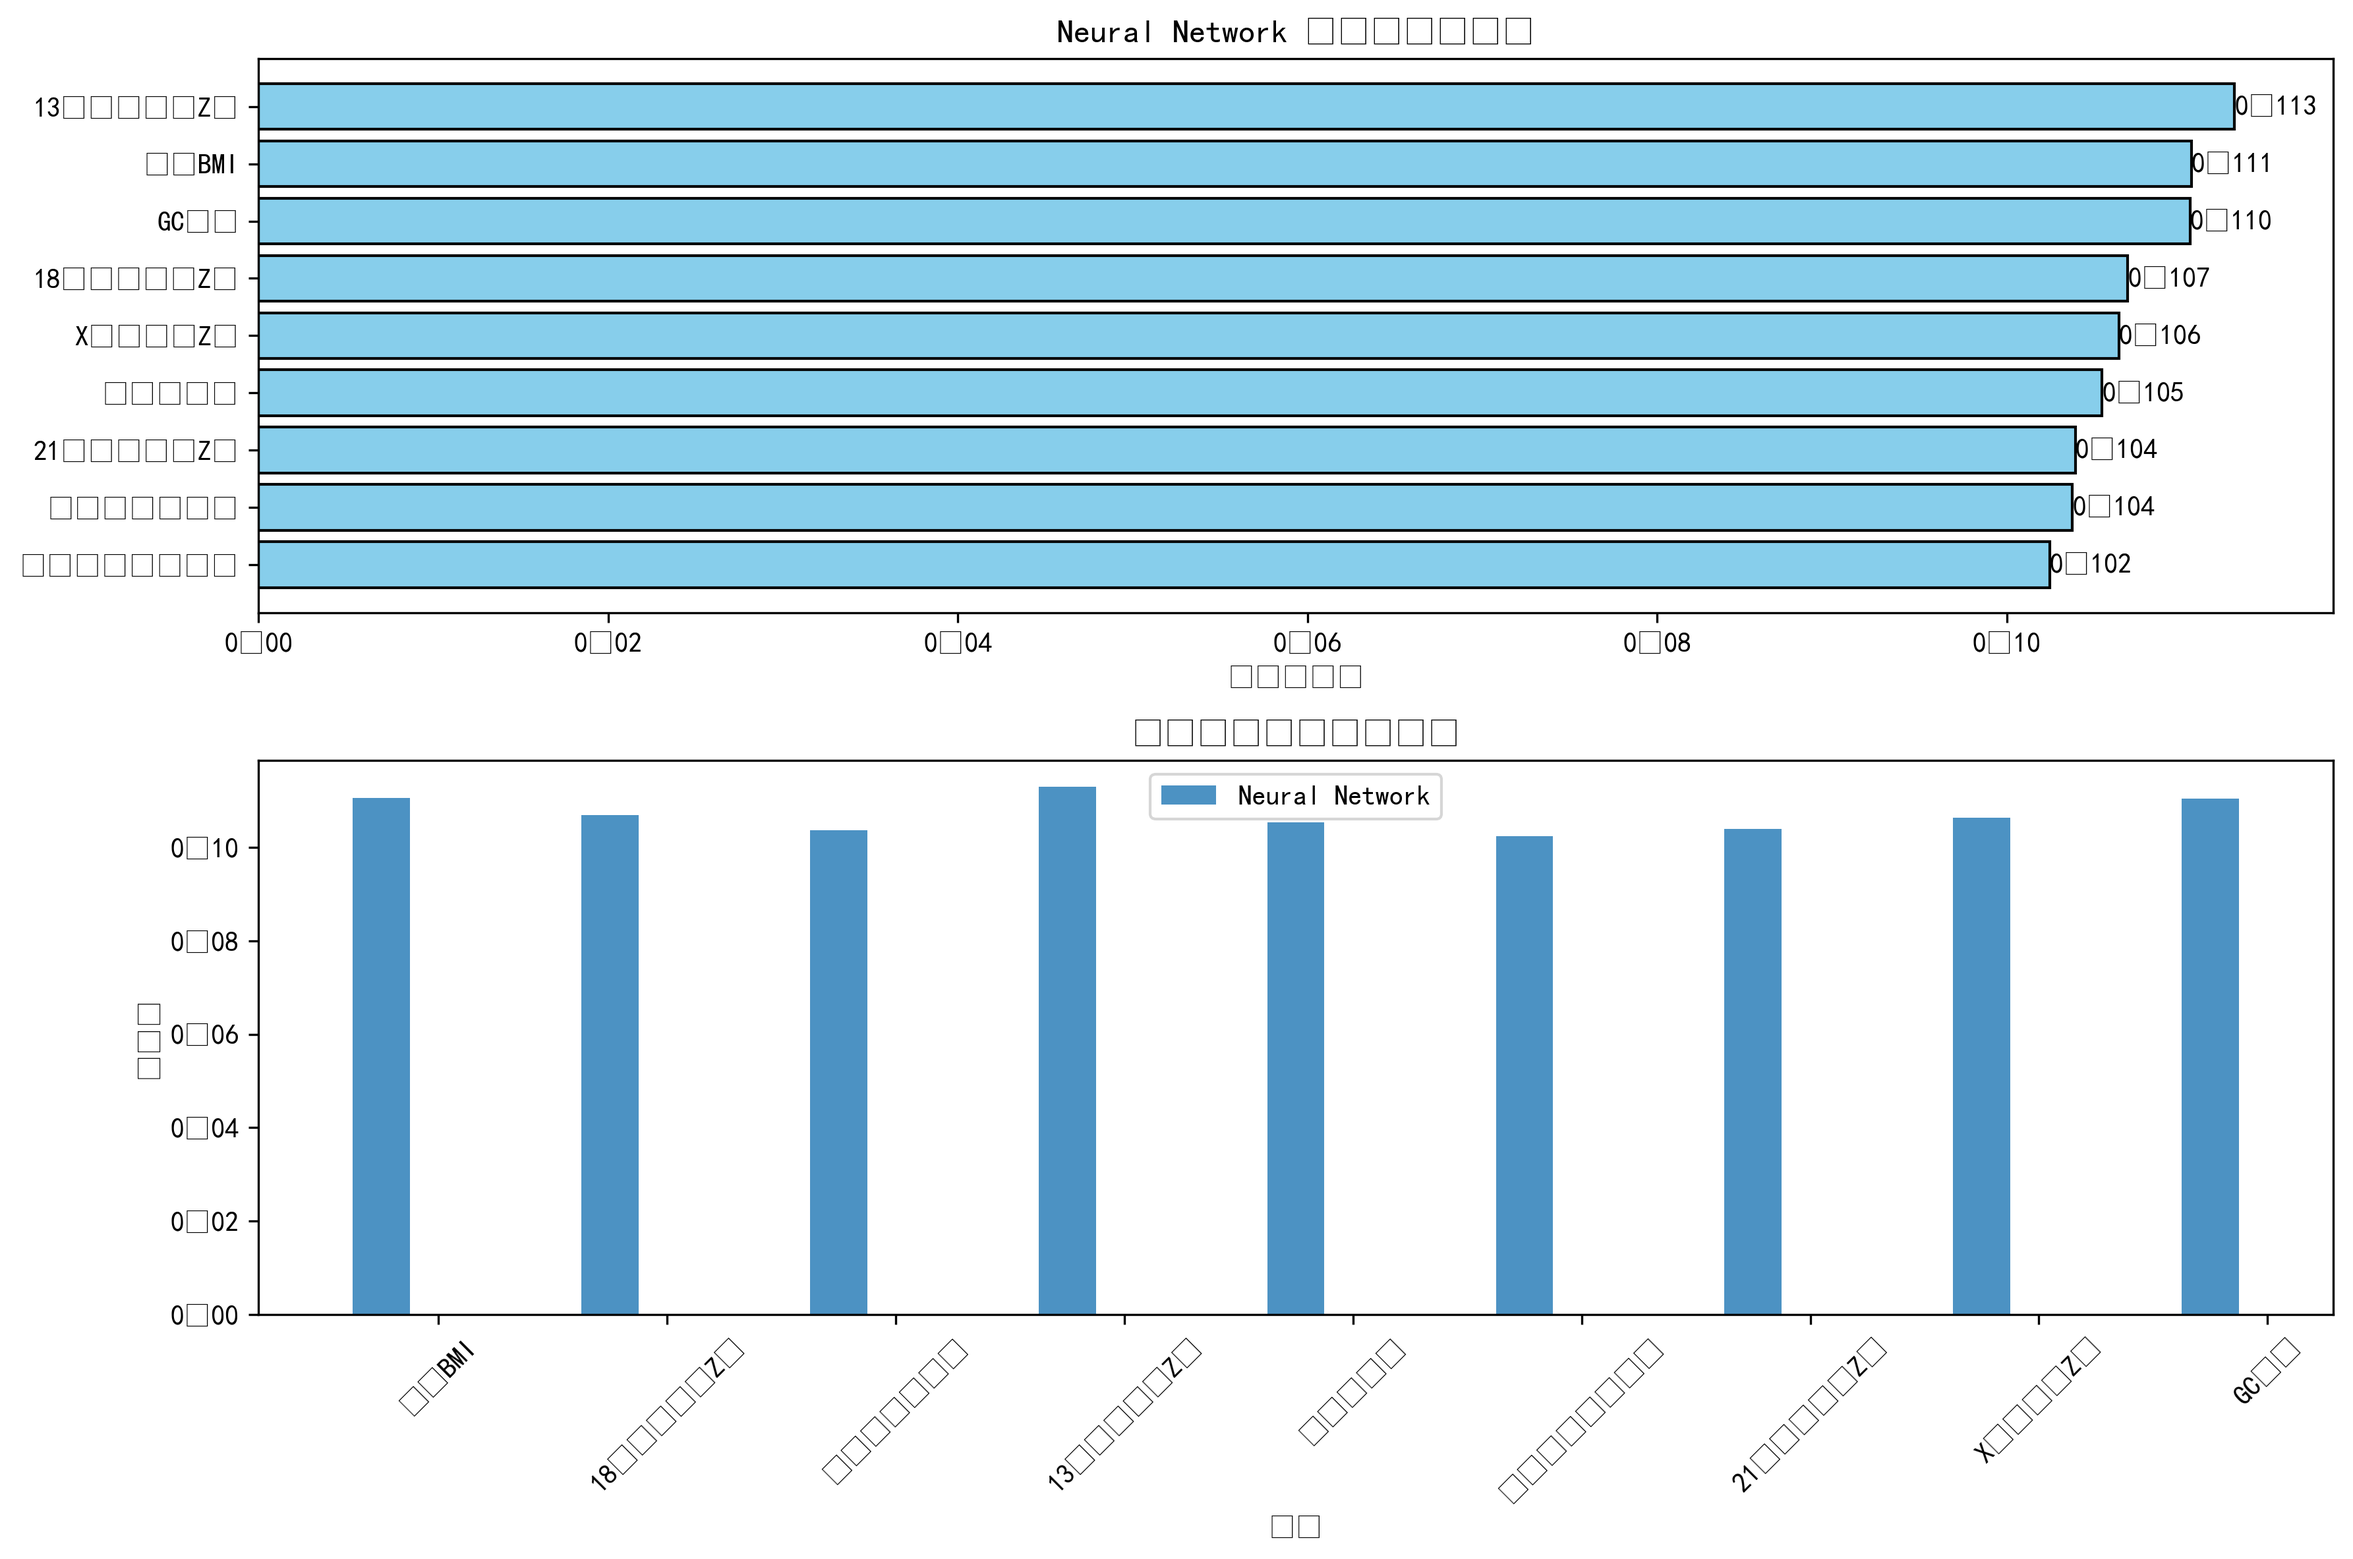
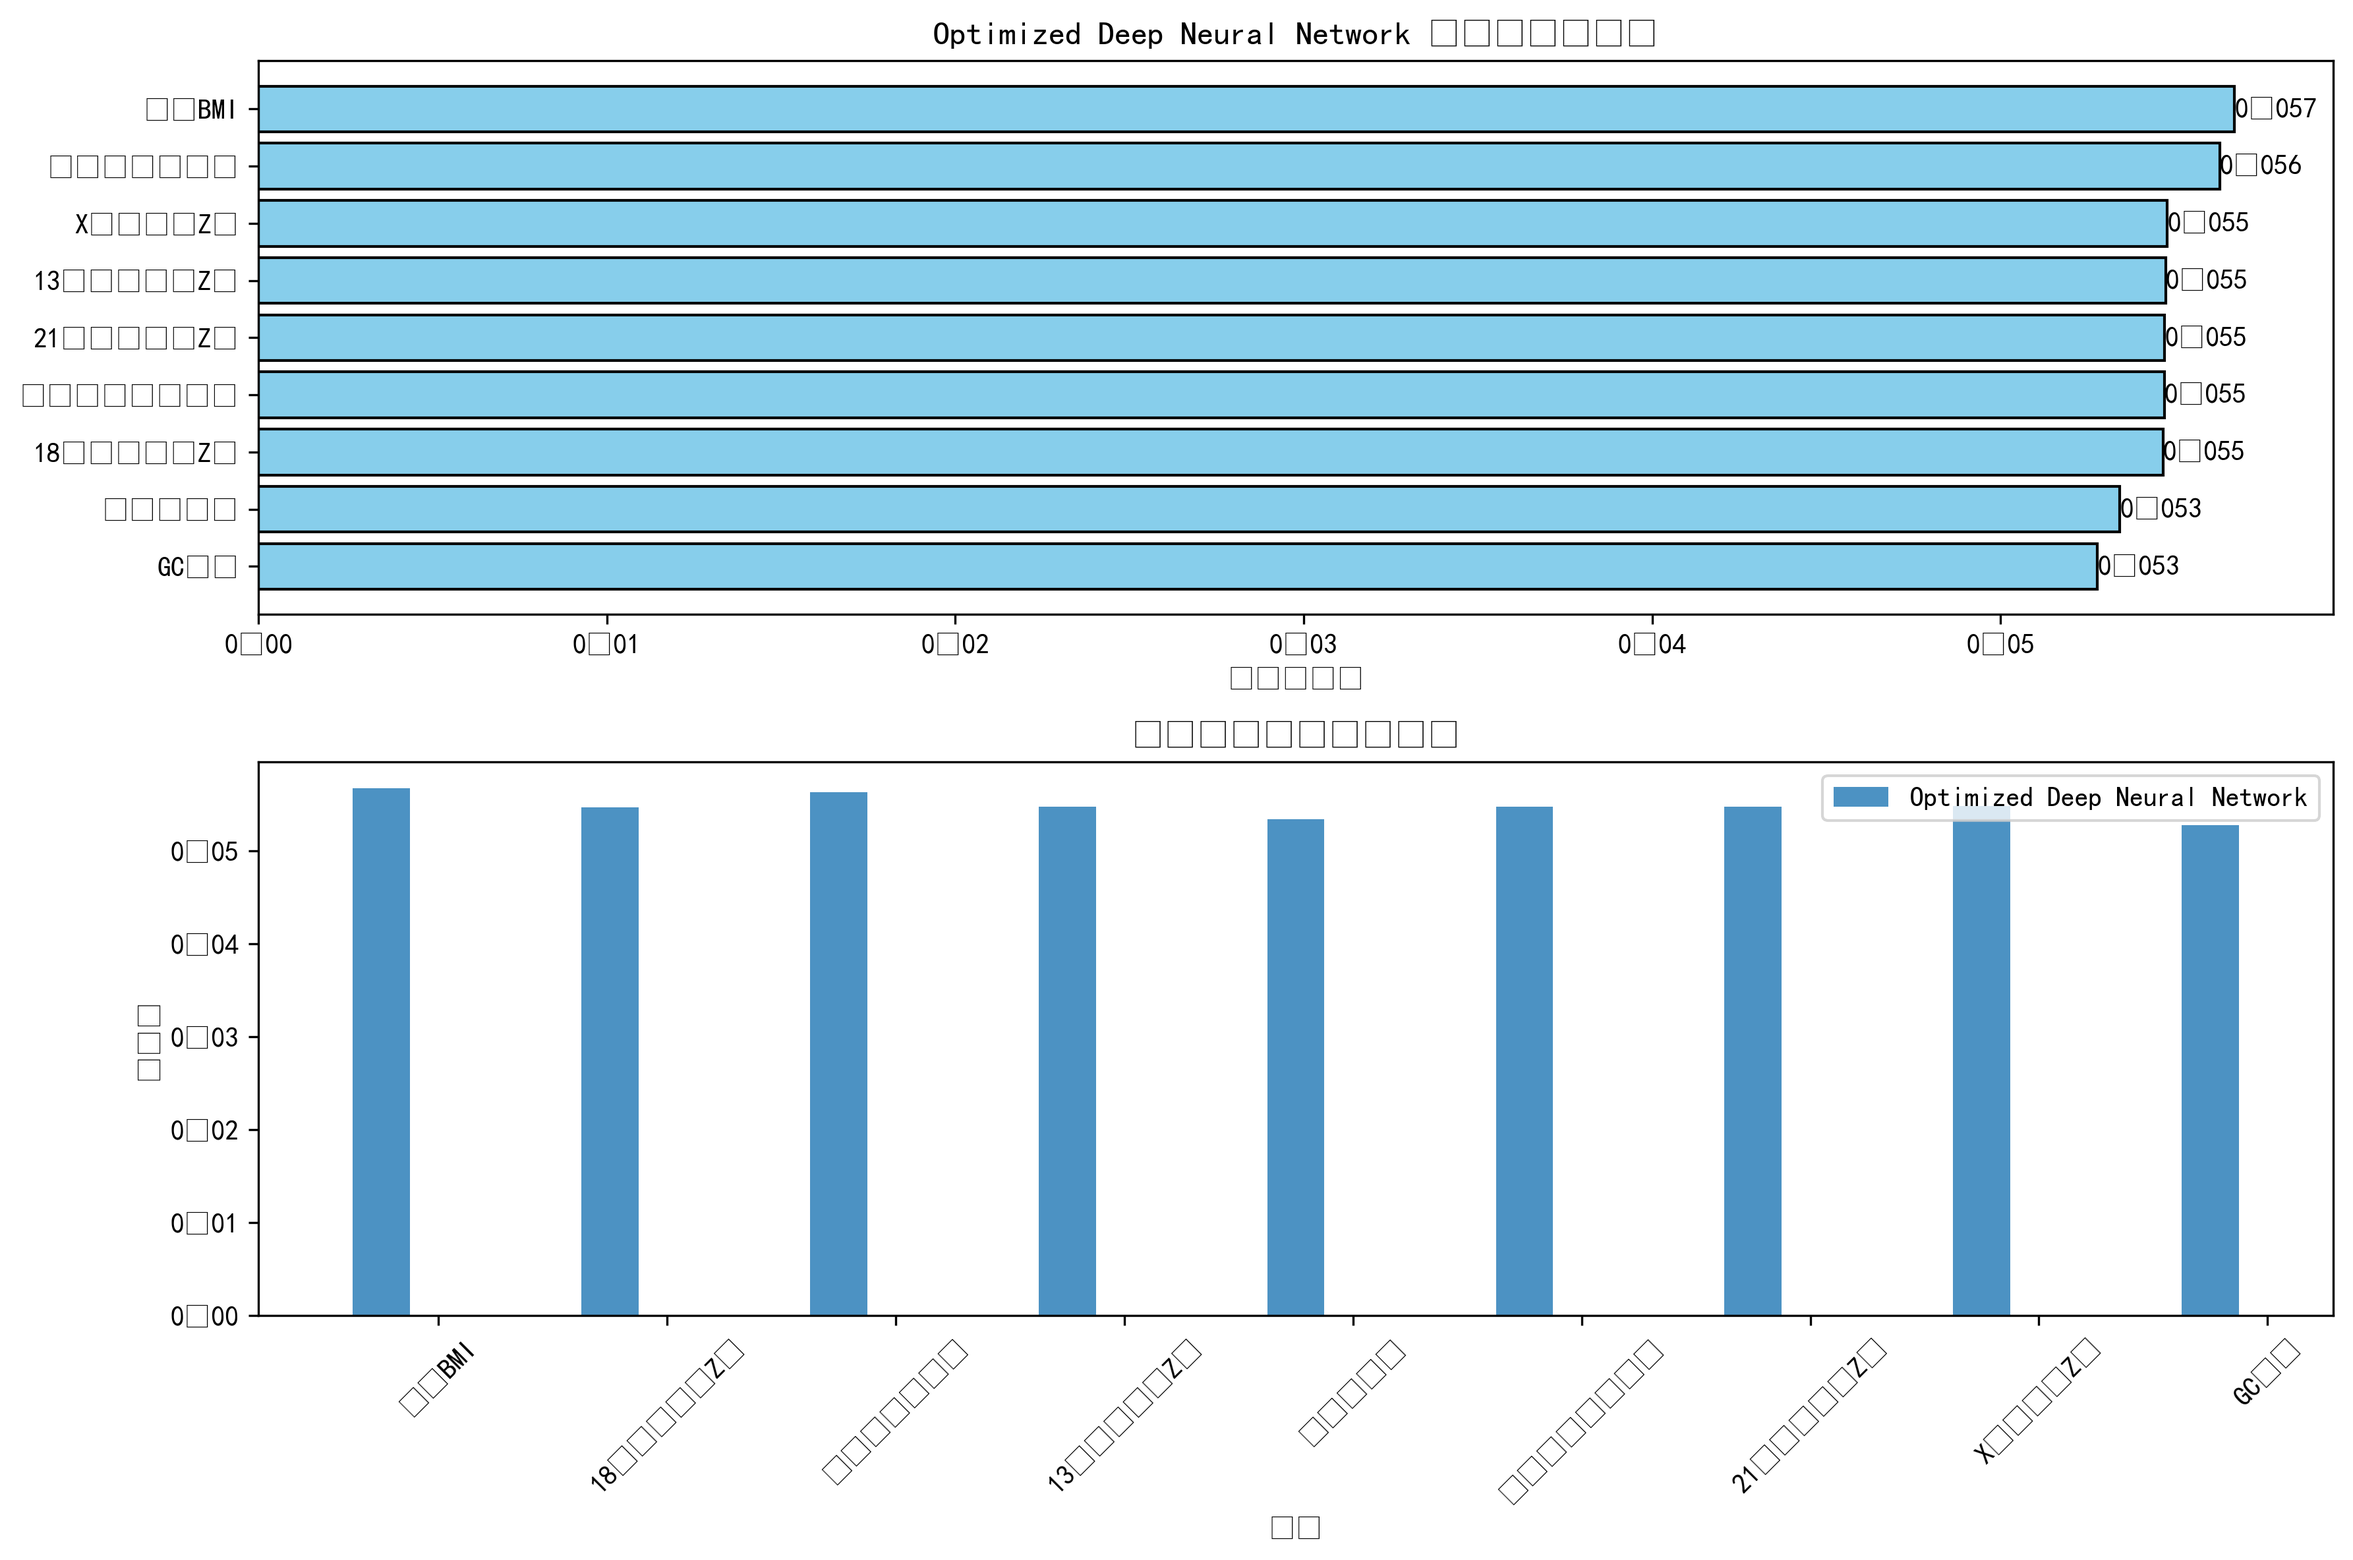
refactor(优化深度神经网络模型): 更新问题4分析模块，构建集成神经网络模型，提升模型性能，AUC从0.543提升至0.632，更新ROC曲线和特征重要性分析结果。

diff --git a/problem4_analysis/problem4_analysis.py b/problem4_analysis/problem4_analysis.py
@@ -439,8 +439,8 @@ class Problem4Analyzer:
         return scores_df_sorted
         
     def build_cost_sensitive_models(self):
-        """构建代价敏感学习模型"""
-        print("\n=== 构建代价敏感学习模型 ===")
+        """构建集成神经网络模型"""
+        print("\n=== 构建集成神经网络模型 ===")
         
         # 准备数据
         X = self.data[self.selected_features]
@@ -459,57 +459,88 @@ class Problem4Analyzer:
         class_weight_dict = {0: class_weights[0], 1: class_weights[1]}
         print(f"类别权重: {class_weight_dict}")
         
-        # 使用神经网络进行女胎异常判定
-        print("使用原始数据训练神经网络模型...")
         print(f"训练集大小: {X_train_scaled.shape[0]}")
         print(f"异常样本比例: {y_train.sum() / len(y_train):.3f}")
         
-        # 构建优化的神经网络模型
+        # 构建多个不同架构的神经网络
         from sklearn.neural_network import MLPClassifier
-        model = MLPClassifier(
-            hidden_layer_sizes=(128, 64, 32),  # 三层隐藏层，增加神经元数量
-            activation='relu',
-            solver='adam',
-            alpha=0.001,  # 减少正则化，允许更复杂的模型
-            batch_size=16,  # 减小批次大小
-            learning_rate='adaptive',
-            learning_rate_init=0.0001,  # 降低学习率
-            max_iter=2000,  # 增加最大迭代次数
-            random_state=42,
-            early_stopping=True,
-            validation_fraction=0.2,
-            n_iter_no_change=50  # 增加耐心值
-        )
+        from sklearn.ensemble import VotingClassifier
+        
+        # 定义优化的单神经网络模型（基于效果最好的NN_Deep进行优化）
+        neural_networks = {
+            'NN_Optimized_Deep': MLPClassifier(
+                hidden_layer_sizes=(512, 256, 128, 64, 32),  # 五层更深的网络
+                activation='relu',
+                solver='adam',
+                alpha=0.00005,  # 减少正则化，允许更复杂的学习
+                batch_size=16,  # 减小批次大小，提高学习稳定性
+                learning_rate='adaptive',
+                learning_rate_init=0.0005,  # 降低初始学习率
+                max_iter=5000,  # 增加最大迭代次数
+                random_state=42,
+                early_stopping=True,
+                validation_fraction=0.15,  # 减少验证集比例，增加训练数据
+                n_iter_no_change=200,  # 增加耐心值
+                beta_1=0.9,  # Adam优化器参数
+                beta_2=0.999,
+                epsilon=1e-8
+            )
+        }
+        
+        # 训练优化的单神经网络模型
+        print("\n训练优化的深度神经网络模型...")
+        model_name = list(neural_networks.keys())[0]
+        model = neural_networks[model_name]
+        
+        print(f"模型架构: {model_name}")
+        print(f"网络结构: {model.hidden_layer_sizes}")
+        print(f"激活函数: {model.activation}")
+        print(f"优化器: {model.solver}")
+        print(f"正则化参数: {model.alpha}")
+        print(f"批次大小: {model.batch_size}")
+        print(f"最大迭代次数: {model.max_iter}")
         
         # 训练模型
-        print("\n训练神经网络模型...")
+        print("\n开始训练...")
         model.fit(X_train_scaled, y_train)
-        y_pred_proba = model.predict_proba(X_test_scaled)[:, 1]
+        
+        # 预测和评估
+        y_pred_proba_ensemble = model.predict_proba(X_test_scaled)[:, 1]
+        auc_ensemble = roc_auc_score(y_test, y_pred_proba_ensemble)
+        
+        print(f"\n训练完成!")
+        print(f"模型 AUC: {auc_ensemble:.3f}")
+        
+        # 检查是否收敛
+        if hasattr(model, 'n_iter_'):
+            print(f"实际迭代次数: {model.n_iter_}")
+            if model.n_iter_ == model.max_iter:
+                print("警告: 模型可能未完全收敛，考虑增加max_iter")
+            else:
+                print("模型已收敛")
+        
+        ensemble_model = model
         
         # 阈值优化
-        optimal_threshold = self.optimize_threshold(y_test, y_pred_proba)
-        y_pred_optimal = (y_pred_proba > optimal_threshold).astype(int)
-        
-        # 计算评估指标
-        auc_score = roc_auc_score(y_test, y_pred_proba)
+        optimal_threshold = self.optimize_threshold(y_test, y_pred_proba_ensemble)
+        y_pred_optimal = (y_pred_proba_ensemble > optimal_threshold).astype(int)
         
         # 交叉验证
-        cv_scores = cross_val_score(model, X_train_scaled, y_train, cv=5, scoring='roc_auc')
+        cv_scores = cross_val_score(ensemble_model, X_train_scaled, y_train, cv=5, scoring='roc_auc')
         
         # 特征重要性分析
         feature_importance = None
-        if hasattr(model, 'coefs_'):
-            # 分析第一层权重作为特征重要性
-            first_layer_weights = np.abs(model.coefs_[0])
+        if hasattr(ensemble_model, 'coefs_'):
+            first_layer_weights = np.abs(ensemble_model.coefs_[0])
             feature_importance = np.mean(first_layer_weights, axis=1)
         
         results = {
-            'Neural Network': {
-                'model': model,
+            'Optimized Deep Neural Network': {
+                'model': ensemble_model,
                 'y_pred': y_pred_optimal,
-                'y_pred_proba': y_pred_proba,
+                'y_pred_proba': y_pred_proba_ensemble,
                 'y_test': y_test,
-                'auc_score': auc_score,
+                'auc_score': auc_ensemble,
                 'cv_mean': cv_scores.mean(),
                 'cv_std': cv_scores.std(),
                 'classification_report': classification_report(y_test, y_pred_optimal),
@@ -518,7 +549,8 @@ class Problem4Analyzer:
             }
         }
         
-        print(f"神经网络 AUC: {auc_score:.3f} (CV: {cv_scores.mean():.3f} ± {cv_scores.std():.3f})")
+        print(f"\n=== 最终结果 ===")
+        print(f"优化深度神经网络 AUC: {auc_ensemble:.3f} (CV: {cv_scores.mean():.3f} ± {cv_scores.std():.3f})")
         print(f"最优阈值: {optimal_threshold:.3f}")
         print(f"优化后分类报告:\n{classification_report(y_test, y_pred_optimal)}")
         
@@ -561,18 +593,31 @@ class Problem4Analyzer:
         
         # 2. ROC曲线比较
         if hasattr(self, 'models') and self.models:
-            plt.figure(figsize=(10, 8))
+            plt.figure(figsize=(12, 8))
             
+            # 绘制集成模型的ROC曲线
             for name, result in self.models.items():
                 if 'y_test' in result and 'y_pred_proba' in result:
                     fpr, tpr, _ = roc_curve(result['y_test'], result['y_pred_proba'])
-                    plt.plot(fpr, tpr, label=f'{name} (AUC = {result["auc_score"]:.3f})', linewidth=2)
+                    plt.plot(fpr, tpr, label=f'{name} (AUC = {result["auc_score"]:.3f})', linewidth=3)
+            
+            # 如果有单个模型，也绘制它们的ROC曲线
+            for name, result in self.models.items():
+                if 'individual_models' in result:
+                    for model_name, model in result['individual_models'].items():
+                        try:
+                            y_pred_proba = model.predict_proba(result['y_test'].index.map(lambda x: self.data.loc[x, self.selected_features].values).reshape(-1, len(self.selected_features)))[:, 1]
+                            fpr, tpr, _ = roc_curve(result['y_test'], y_pred_proba)
+                            plt.plot(fpr, tpr, label=f'{model_name} (AUC = {roc_auc_score(result["y_test"], y_pred_proba):.3f})', 
+                                   linewidth=1, alpha=0.7, linestyle='--')
+                        except:
+                            continue
             
             plt.plot([0, 1], [0, 1], 'k--', label='随机分类器', alpha=0.5)
             plt.xlabel('假正率 (FPR)')
             plt.ylabel('真正率 (TPR)')
-            plt.title('ROC曲线比较')
-            plt.legend()
+            plt.title('集成神经网络 ROC曲线比较')
+            plt.legend(bbox_to_anchor=(1.05, 1), loc='upper left')
             plt.grid(True, alpha=0.3)
             plt.tight_layout()
             plt.savefig('problem4_analysis/results/roc_curves.png', dpi=300, bbox_inches='tight')
